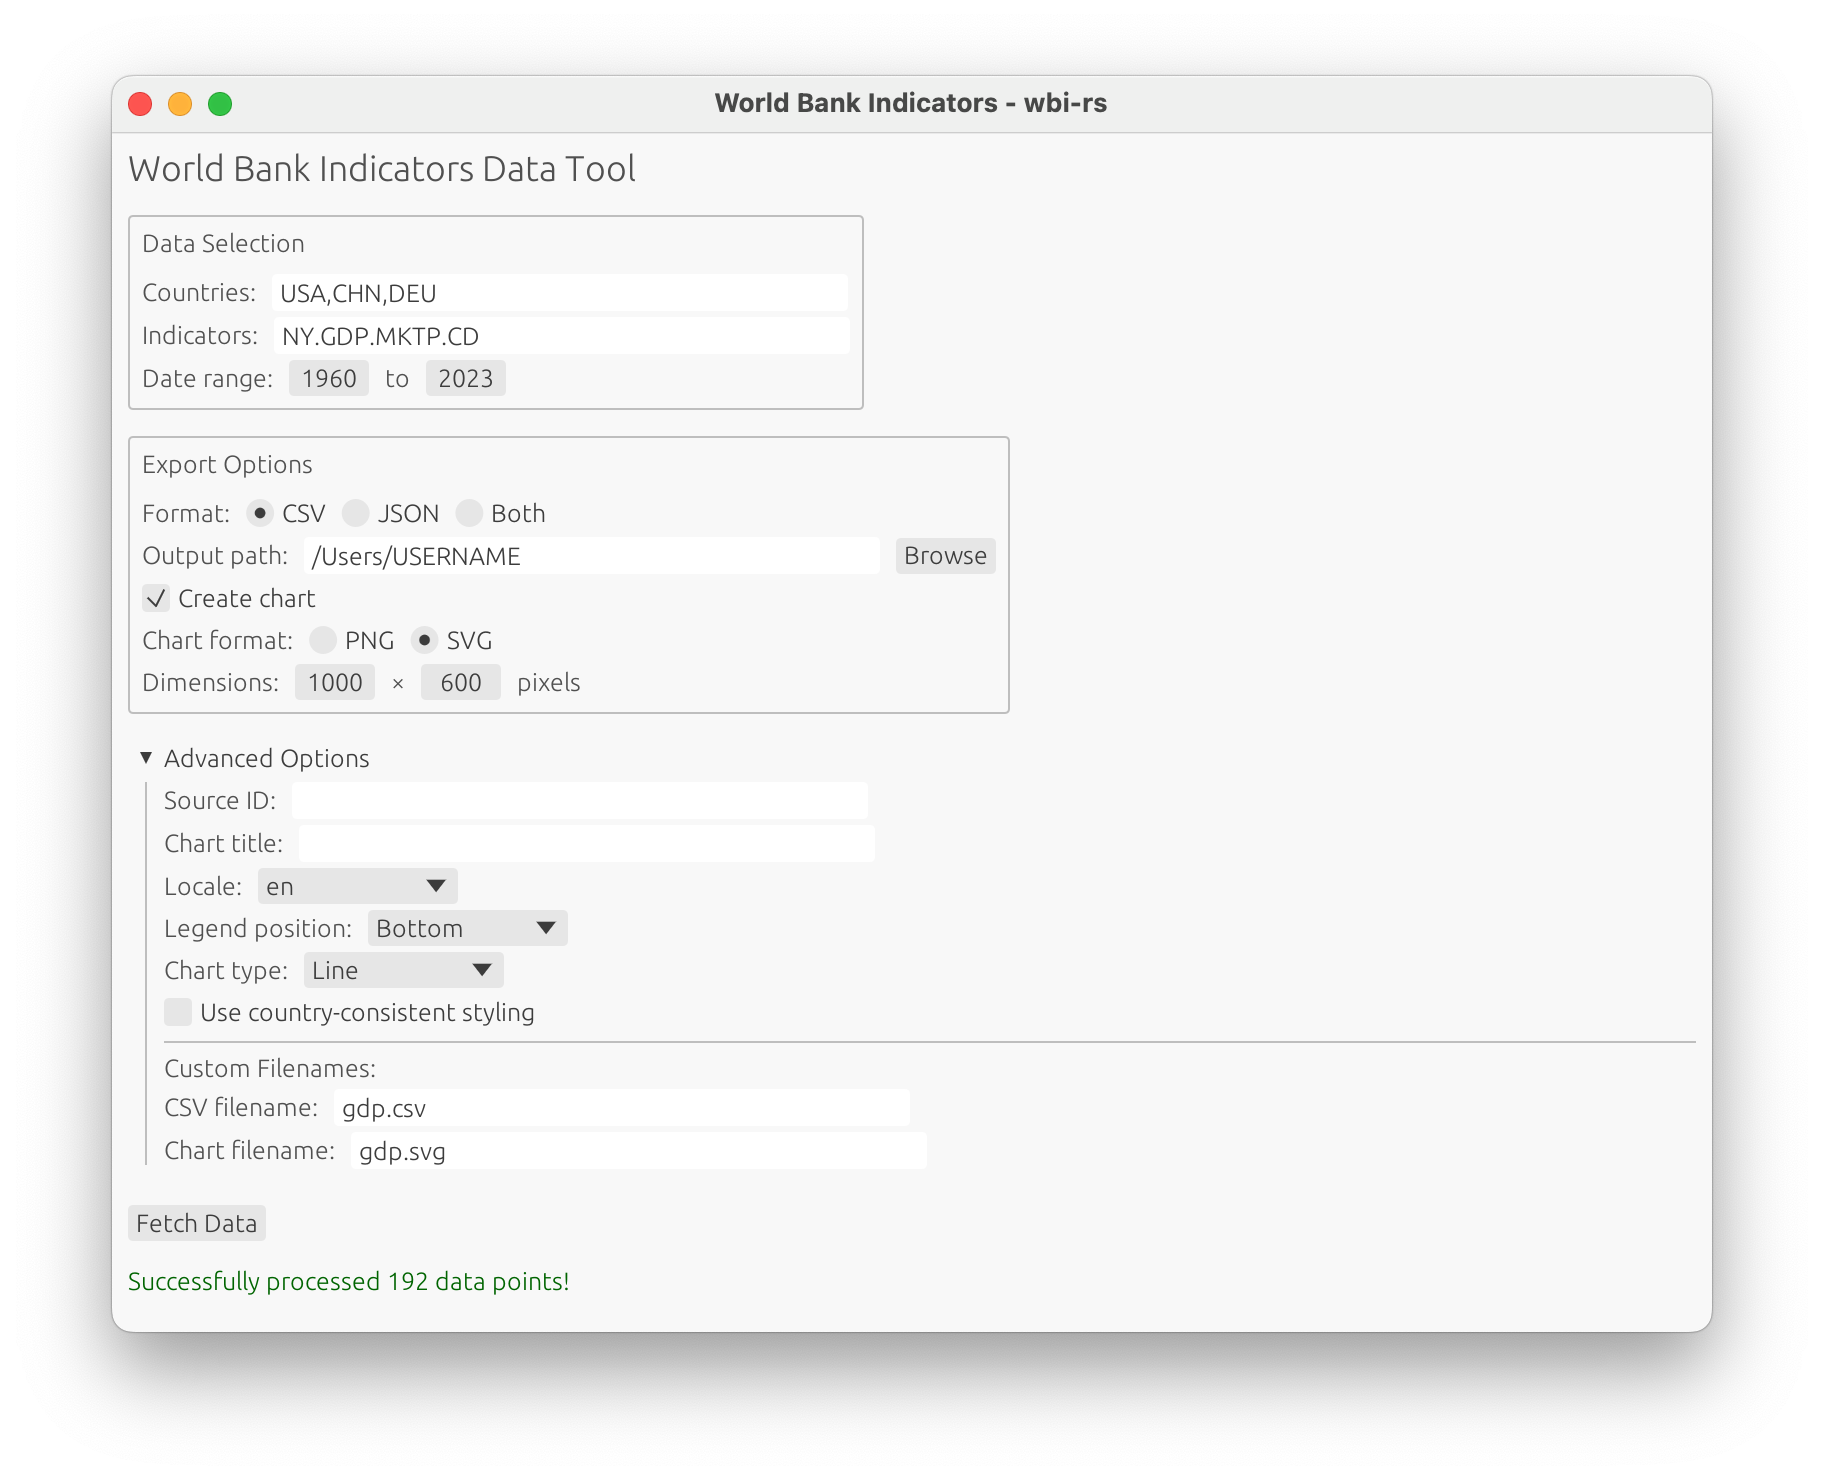
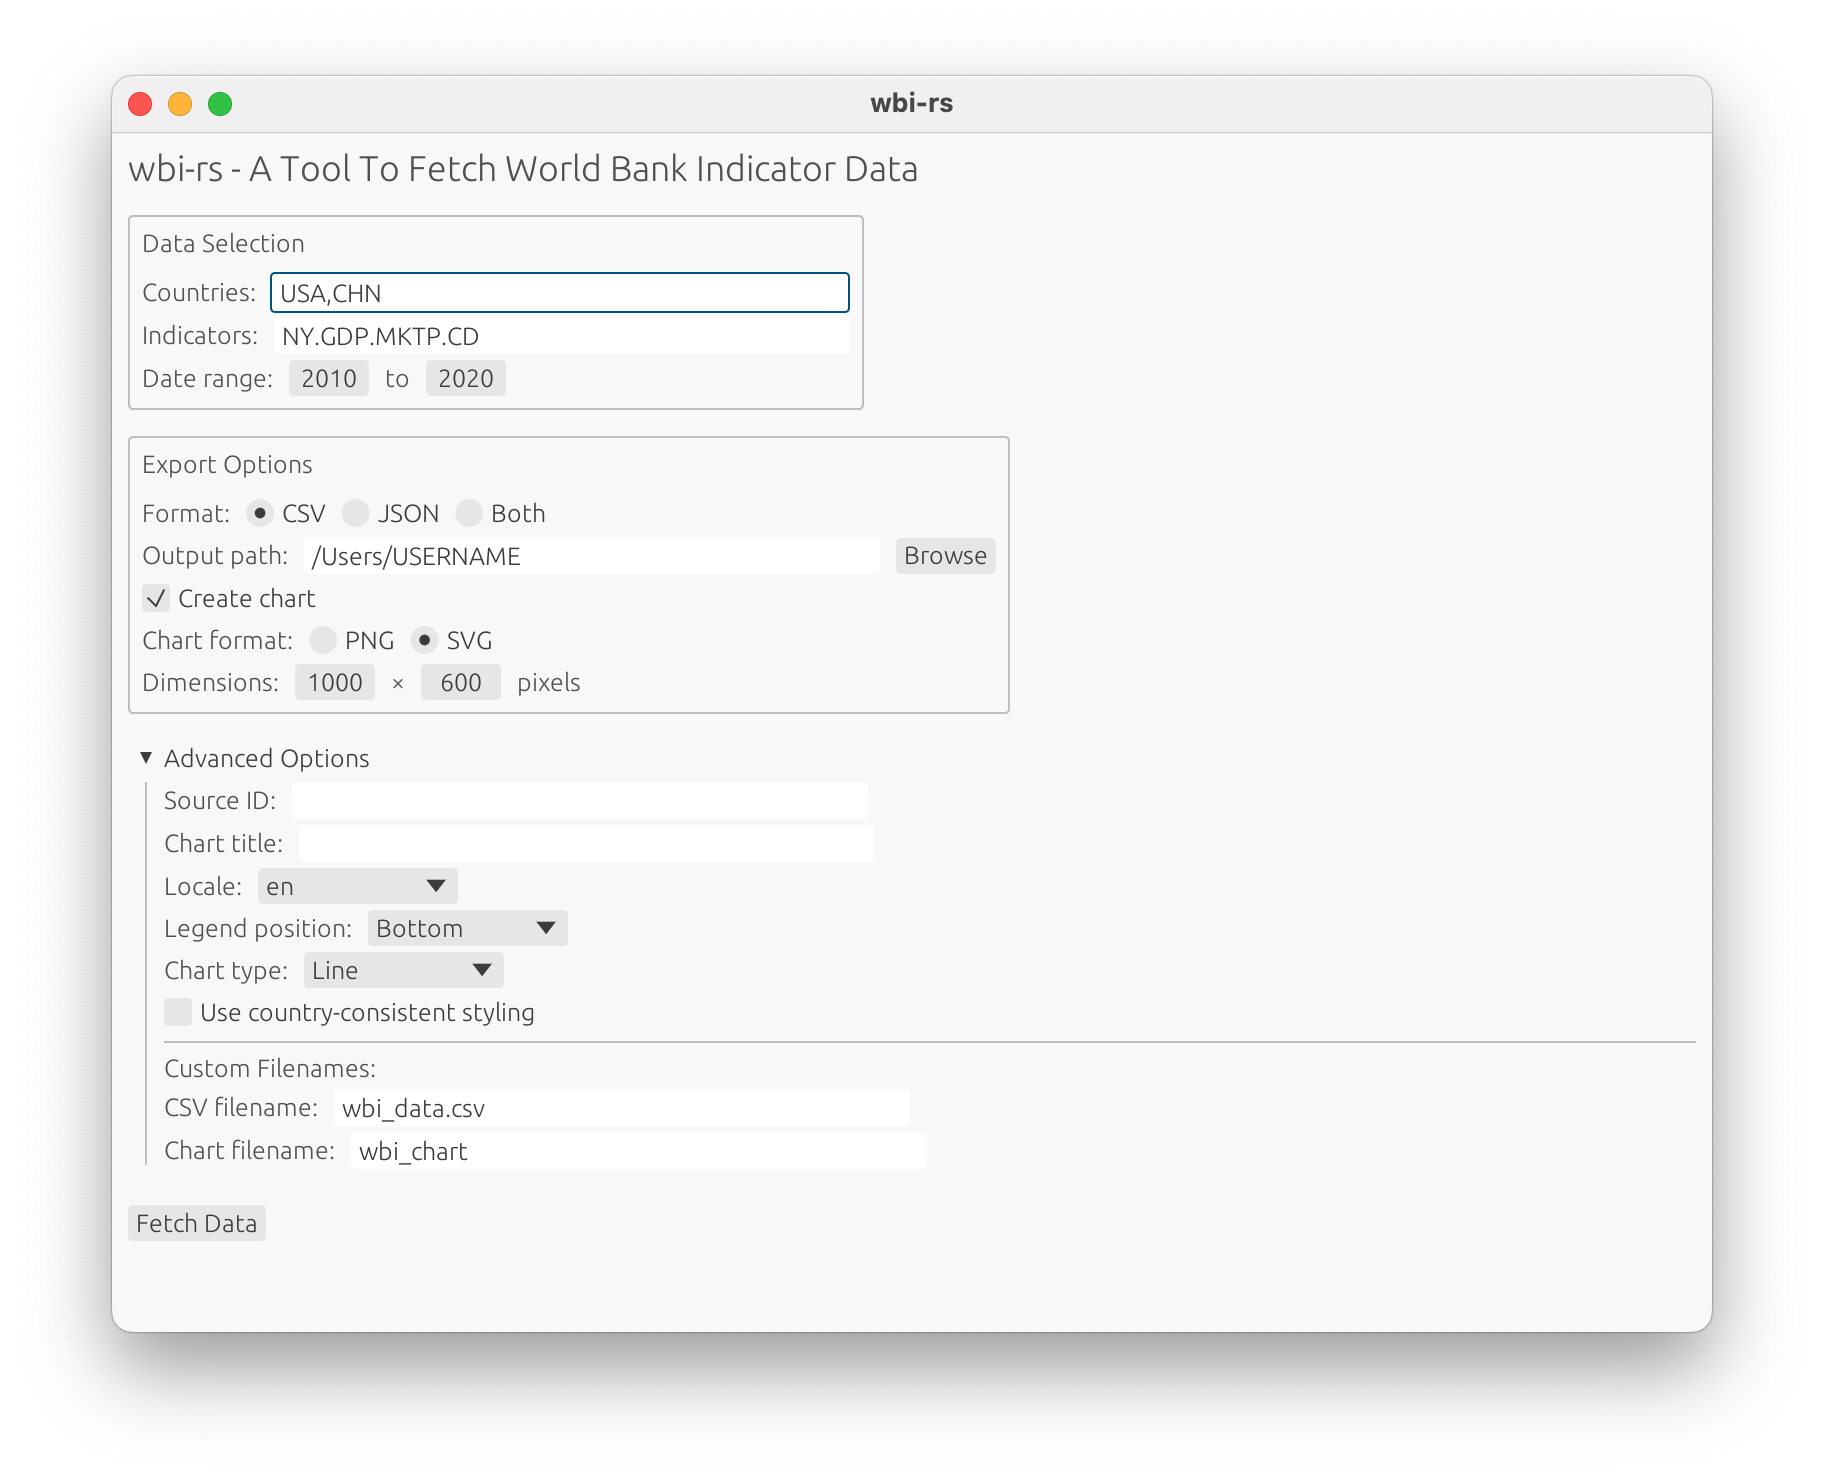
Small updates

diff --git a/src/bin/wbi-gui.rs b/src/bin/wbi-gui.rs
@@ -25,12 +25,12 @@ fn main() -> Result<(), eframe::Error> {
         viewport: egui::ViewportBuilder::default()
             .with_inner_size([800.0, 600.0])
             .with_min_inner_size([600.0, 400.0])
-            .with_title("World Bank Indicators - wbi-rs"),
+            .with_title("wbi-rs"),
         ..Default::default()
     };
 
     eframe::run_native(
-        "World Bank Indicators",
+        "wbi-rs",
         options,
         Box::new(|_cc| Ok(Box::new(WbiApp::new()))),
     )
@@ -306,7 +306,7 @@ impl eframe::App for WbiApp {
 
         egui::CentralPanel::default().show(ctx, |ui| {
             egui::ScrollArea::vertical().show(ui, |ui| {
-                ui.heading("World Bank Indicators Data Tool");
+                ui.heading("wbi-rs - A Tool To Fetch World Bank Indicator Data");
                 ui.add_space(10.0);
 
                 // Main input section
